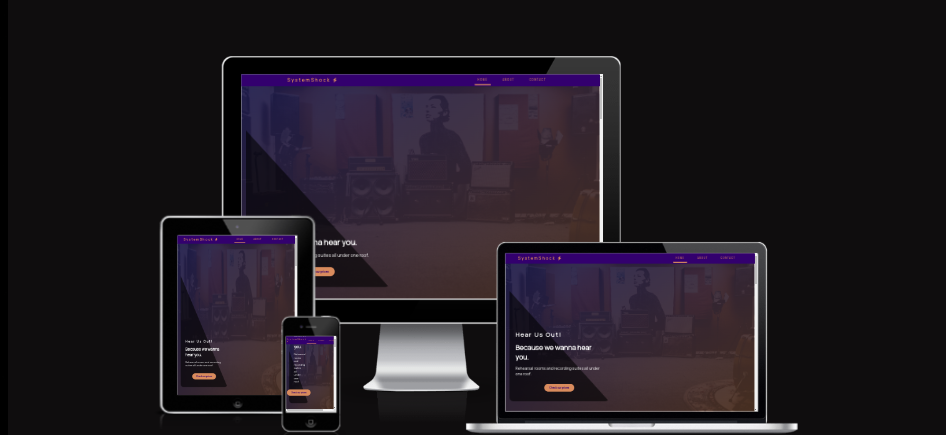
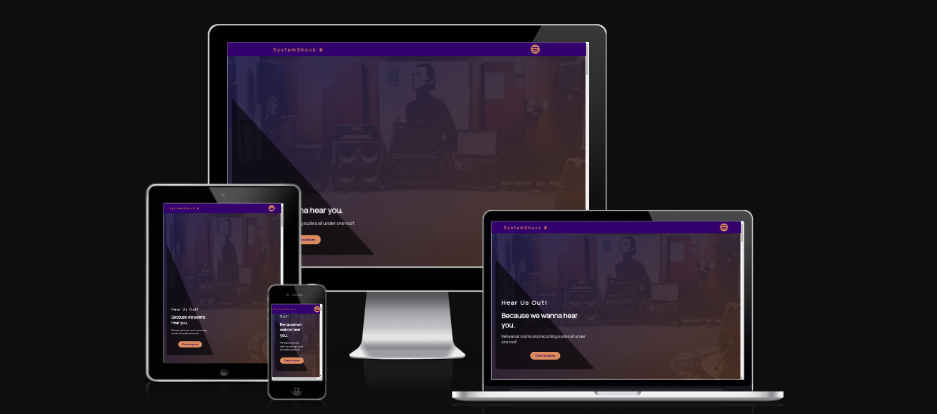
Add features section to README.md + fix navbar bug

Changed region(s): [[0.1547, 0.058, 0.8666, 1.0]]

diff --git a/index.html b/index.html
@@ -21,7 +21,7 @@
                 <a href="">
                     <h1>SystemShock <i class="fa-solid fa-bolt"></i></h1>
                 </a>
-                <div class="nav-button"id="nav-button">
+                <div class="nav-button" id="nav-button">
                     <div class="burgerline" id="burgerline"></div>
                 </div>
             </div>      
@@ -42,7 +42,7 @@
         </div>
         <div class="hero-blurb-container">
             <h3>Hear Us Out!</h3>
-            <h2>Because we wanna hear you.</h3>
+            <h2>Because we wanna hear you.</h2>
             <p>Rehearsal rooms and recording suites all under one roof.</p>
             <a class="btn btn-hero" href="#prices">Check our prices</a>
         </div>
@@ -62,7 +62,6 @@
     <section class="equipment u-padding-top-large" id="equipment">
         <div class="u-container">
             <h2 class="intro-heading">You Will Sound Electrifying</h2>
-            </div>
         </div>
         <div class="equipment-bg">
             <div class="equipment-content u-container u-text-center">
@@ -160,7 +159,6 @@
     <section class="recording u-padding-top-large" id="recording">
         <div class="u-container">
             <h2 class="intro-heading">Let us help you put that track down</h2>
-            </div>
         </div>
         <div class="recording-bg">
             <div class="u-container">
@@ -238,14 +236,14 @@
                 <label for="bookings-email">Email</label>
                 <input type="email" id="bookings-email" placeholder="Enter email...">
                 <label for="bookings-option">Looking to book or just get in touch?</label>
-                <select name="" id="bookings-option">
+                <select id="bookings-option">
                     <option value="recording">Recording</option>
                     <option value="rehearsal">Rehearsal</option>
                     <option value="general">General questions</option>
                 </select>
                 <label for="bookings-message">Fill us in!</label>
                 <textarea  id="bookings-message" cols="30" rows="10" placeholder="What do we need to know?"></textarea>
-                <input type="submit" class="btn submit-btn"  id="">
+                <input type="submit" class="btn submit-btn">
             </form>
         </div>
     </section>

diff --git a/app.js b/app.js
@@ -11,5 +11,6 @@ navButton.addEventListener('click', () => {
 navLink.forEach(link => {
     link.addEventListener('click', () => {
         navFlex.classList.toggle('active')
+        burgerline.classList.toggle('active')
     })
 })

diff --git a/README.md b/README.md
@@ -44,6 +44,74 @@ For typography I decided to go for a singular font from [Google Fonts](https://f
 
 ## Features
 
+### Navbar
+
+![navbar](documentation/navbar-desktop.png)
+![Navbar-active](documentation/navbar-desktop-active.png)
+
+#### For desktop - tablet
+- sleek simple design
+- logo and name act as link to return to the top of the page
+- animated burger menu which brings in links for different sections
+- links section automatically close after selected
+- uses Javascript for burger menu interaction
+
+![navbar-mobile](documentation/navbar-mobile.png)
+![navbar-mobile-active](documentation/navbar-mobile-active.png)
+
+#### For mobile
+- same principles as desktop menu
+- links section now comes in on right side of screen and takes up full height for ease of use on mobile devices
+- also includes logo in the bottom of the now bigger proportioned menu 
+
+### Hero 
+
+![hero-image](documentation/hero-doc.png)
+
+- uses a full screen image with two layers above it. One is a linear-gradient of the two main colours running from the top left to bottom right and another of just black. Using a medium opacity on both to create the effect
+- Intro blurb positioned out of the way to let background take center stage
+- button drops in a second after the page has loaded to draw the eye into that area
+-  for mobile the only change is the text area and its background is given more real estate to help keep all text readable and on a single screen (see below:)
+
+![hero-image-mobile](documentation/hero-doc-mobile.png)
+
+### Equipment
+
+![equipment-section](documentation/equipment.png)
+![equipment-section-hover](documentation/equipment-hover.png)
+
+- uses the grid system to display available equipment 
+- every second item has a different border and overlay
+- when hovered the image darkens and zooms in while an overlay of the opposite color of the border comes up from below with the name of the equipment
+- on mobile the only change is the size of the grid rows is changed to 2 to make it easier to view and stop the images distorting (see below:)
+
+![equipment-mobile](documentation/equipment-mobile.png)
+
+### Pricing 
+
+![pricing](/documentation/pricing.png)
+
+#### For desktop
+
+- used cards to differentiate between our servicies 
+- used flex box to allow an easy staggered effect
+- on hover the cards enlarge and the box-shadow grows giving an almost tactile impression
+
+![pricing-mobile](/documentation/pricing-mobile.png)
+
+#### For mobile
+
+- flex direction is changed to column to stack divs on top of each other for ease of reacding 
+- new shape lends itself to scrolling on small screens better
+- images resized to fit new shape better
+
+### Contact
+
+![fontact-form](documentation/contact.png)
+
+- background uses a linear-gradient of the two primary colours and the property background-blend-mode with the screen value to create the effect
+- contact form itself is fully responsive and needed no tweaking between screen sizes
+
 ## Technologies Used
 
 ### Languages Used
